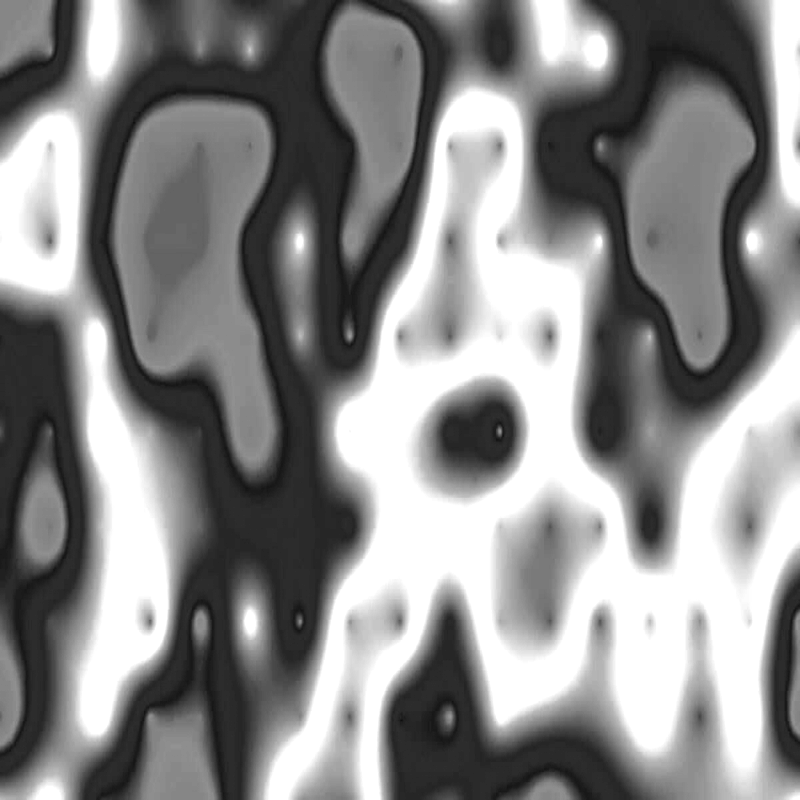
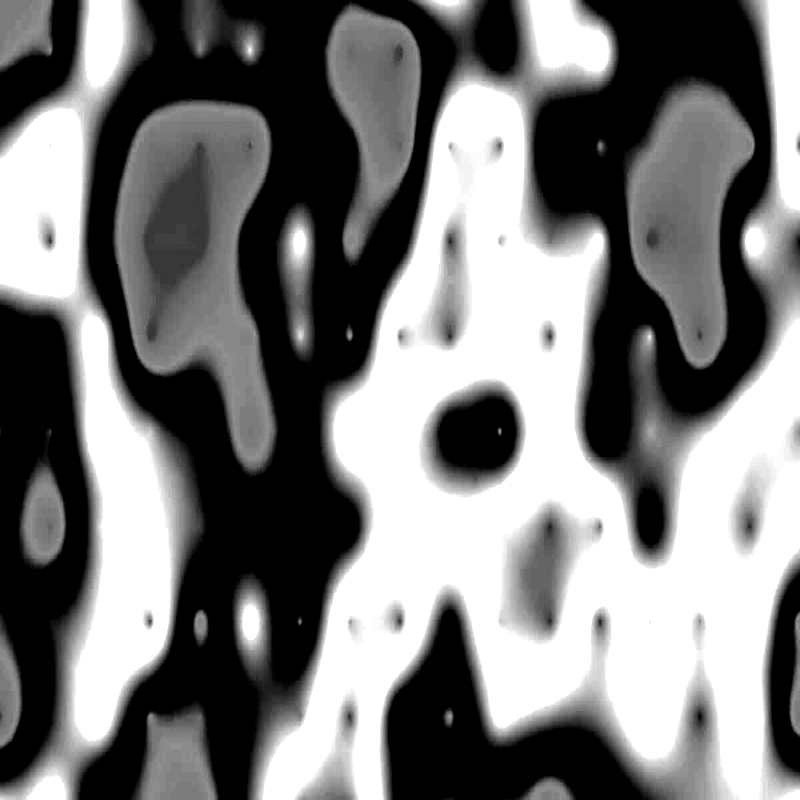
Add iterative grid compression algorithm

diff --git a/pathfinding.py b/pathfinding.py
@@ -24,8 +24,8 @@ ORANGE = (255, 165, 0)
 GREY = (128, 128, 128)
 TURQUOISE = (64, 224, 208)
 
-ROWS = 200
-POS_WIDTH = WIDTH // ROWS
+rows = 320
+pos_width = WIDTH / rows
 
 weight_image = pygame.image.load("weight.png")
 
@@ -37,15 +37,15 @@ font = pygame.font.SysFont("Comic Sans MS", 12)
 
 grid = []
 user_path = []
-start = None
-end = None
+start = (0, 0)
+end = (312, 312)
 
 def draw_pos(pos, color):
   pygame.draw.rect(
     window,
     color,
     # (x, y, width)
-    (pos[0] * POS_WIDTH, pos[1] * POS_WIDTH, POS_WIDTH, POS_WIDTH)
+    (pos[0] * pos_width, pos[1] * pos_width, pos_width, pos_width)
   )
 
 def draw():
@@ -73,21 +73,21 @@ def get_valid_neighbors(pos):
 
   # neighbors are in the form (x, y, is_diagonal)
 
-  if y < ROWS - 1:
+  if y < rows - 1:
     neighbors.append((x, y + 1, False))
-    if x < ROWS - 1:
+    if x < rows - 1:
       neighbors.append((x + 1, y + 1, True))
     if x > 0:
       neighbors.append((x - 1, y + 1, True))
     
   if y > 0:
     neighbors.append((x, y - 1, False))
-    if x < ROWS - 1:
+    if x < rows - 1:
       neighbors.append((x + 1, y - 1, True))
     if x > 0:
       neighbors.append((x - 1, y - 1, True))
 
-  if x < ROWS - 1:
+  if x < rows - 1:
     neighbors.append((x + 1, y, False))
   
   if x > 0:
@@ -128,28 +128,19 @@ def algorithm(start, end, ignore_valid):
 
   scores = { start: distance_to_end(start) }
   
-  weights = { start: get_weight(start, POS_WIDTH) }
+  weights = { start: get_weight(start, pos_width) }
 
   global user_path
-  complete_path = [start, end, *user_path]
-  
-  """
-  for row in grid:
-    for spot in row:
-      spot.reset_visited()
-  """
 
   valid = {}
 
-  for pos in complete_path:
+  for pos in user_path:
     valid[pos] = True
     for x, y, is_diagonal in get_valid_neighbors(pos):
       valid[(x, y)] = True
 
   came_from = {}
   closed = {}
-
-  print(start, end)
 
   while not open_set.empty():
     for event in pygame.event.get():
@@ -179,24 +170,20 @@ def algorithm(start, end, ignore_valid):
         new_score = scores[current] + (1.4 if is_diagonal else 1)
         # may also want to memoize distance_to_end
         new_score += distance_to_end(neighbor) - distance_to_end(current)
-        weights[neighbor] = get_weight(neighbor, POS_WIDTH)
+        weights[neighbor] = get_weight(neighbor, pos_width)
         new_score += max(0, weights[neighbor] - weights[current]) * 100
-        if new_score < old_score:
+        if new_score - old_score < -1e-5:
           came_from[neighbor] = current
           scores[neighbor] = new_score
           count += 1
+          #if (count % 1000 == 0):
+            #print(count / 1000, "thousand")
           open_set.put((scores[neighbor], count, neighbor))
           
-          # text = font.render(str(math.floor(scores[neighbor])), False, (255, 0, 0))
-          # window.blit(text, (neighbor[0] * POS_WIDTH, neighbor[1] * POS_WIDTH))
-          pygame.draw.rect(
-            window,
-            RED,
-            # (x, y, width)
-            (neighbor[0] * POS_WIDTH, neighbor[1] * POS_WIDTH, POS_WIDTH, POS_WIDTH)
-          )
           
-          pygame.display.update()
+          # draw_pos(neighbor, RED)
+          # pygame.display.update()
+          
 
     # draw()
   return False
@@ -209,7 +196,7 @@ def make_grid():
 
 def get_clicked_pos():
   x, y = pygame.mouse.get_pos()
-  return (x // POS_WIDTH, y // POS_WIDTH)
+  return (x // pos_width, y // pos_width)
 
 def main():
   # make_grid()
@@ -258,21 +245,46 @@ def main():
 
       if event.type == pygame.KEYDOWN:
         if event.key == pygame.K_SPACE and start and end:
-          old_length = float("inf")
-          new_length = 0
+          user_path = [start, end, *user_path]
           start_time = time()
           while True:
-            old_length = new_length
-            new_length = algorithm(start, end, False)
+            old_length = float("inf")
+            new_length = 0
+            while True:
+              old_length = new_length
+              new_length = algorithm(start, end, False)
+              draw()
+              if abs(new_length - old_length) < 1e-06:
+                print(new_length)
+                break
             draw()
-            if abs(new_length - old_length) < 1e-06:
+            old_user_path = [start, end, *user_path]
+            user_path = []
+            for old_x, old_y in old_user_path:
+              x, y = old_x * 2, old_y * 2
+              user_path.append((x, y))
+              user_path.append((x + 1, y))
+              user_path.append((x, y + 1))
+              user_path.append((x + 1, y + 1))
+            global pos_width
+            global rows
+            rows *= 2
+            pos_width = WIDTH / rows
+            if pos_width <= 2:
+              print(end)
               break
+            start = (start[0] * 2, start[1] * 2)
+            end = (end[0] * 2, end[1] * 2)
           print("User path took:", time() - start_time)
+
+            
 
         if event.key == pygame.K_TAB and start and end:
           start_time = time()
-          algorithm(start, end, True)
+          length = algorithm(start, end, True)
+          print(length)
           print("A* took:", time() - start_time)
+
           draw() # A* draw
 
         if event.key == pygame.K_c:

diff --git a/image.py b/image.py
@@ -7,7 +7,7 @@ weight_image = None
 
 def update_image():
   updated_image = weight_image.resize((WIDTH, WIDTH)).convert("LA")
-  contrast_image = ImageEnhance.Contrast(updated_image).enhance(2)
+  contrast_image = ImageEnhance.Contrast(updated_image).enhance(4)
   contrast_image.save("weight.png")
 
 
